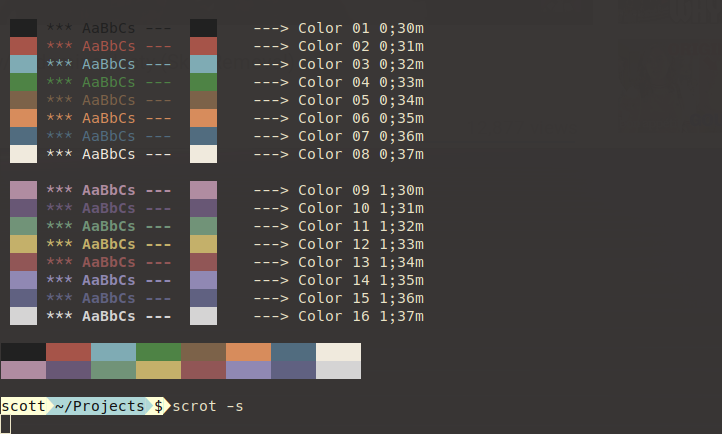
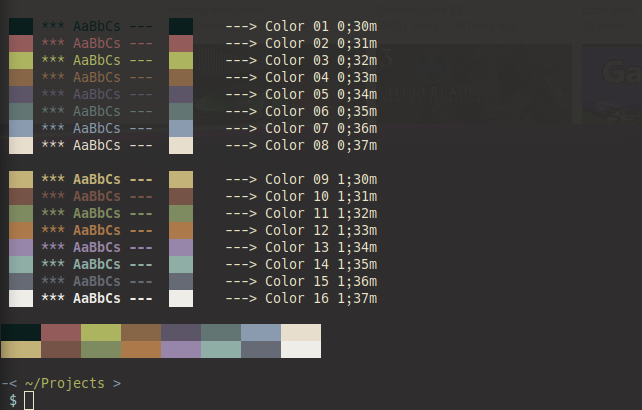
Brought testing to the main branch

diff --git a/palette.md b/palette.md
@@ -1,19 +1,23 @@
-**[1, 8]**
-#212121
-#AD5F55
-#7FABB4
-#52774B
-#6E5B49
-#CF8B60
-#556E80
-#F3EDE2
+[ bg, fg ]
+#302F2E
+#EBE4C7
 
-**[9, 16]**
-#B08CA1
-#685775
-#719378
-#915656
-#8C5757
-#9088B3
-#5D5E7C
-#E0DFDA
+[ 1 ... 8 ]
+#0A1F1D
+#945B5B
+#ADB460
+#876647
+#5C5568
+#627572
+#8A9BB0
+#E7DECE
+
+[ 9 ... 16 ]
+#C4B378
+#765347
+#7E8B61
+#AC794B
+#9886AA
+#8EAEA6
+#656A74
+#EEEDE8

diff --git a/old/palette.md b/old/palette.md
@@ -1,0 +1,25 @@
+**Background**
+#393635
+
+**Foreground**
+#EBE4C7
+
+**[1, 8]**
+#212121
+#AD5F55
+#7FABB4
+#52774B
+#6E5B49
+#CF8B60
+#556E80
+#F3EDE2
+
+**[9, 16]**
+#B08CA1
+#685775
+#719378
+#C4B06A
+#8C5757
+#9088B3
+#5D5E7C
+#E0DFDA
